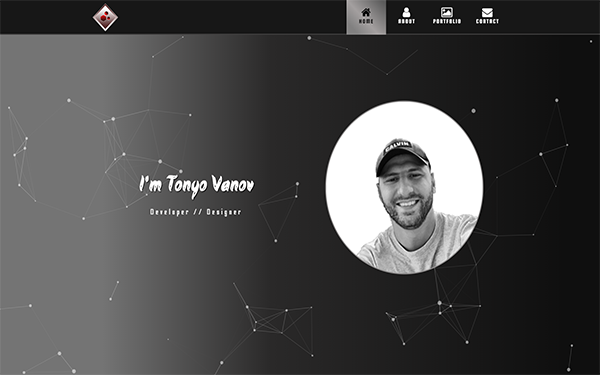
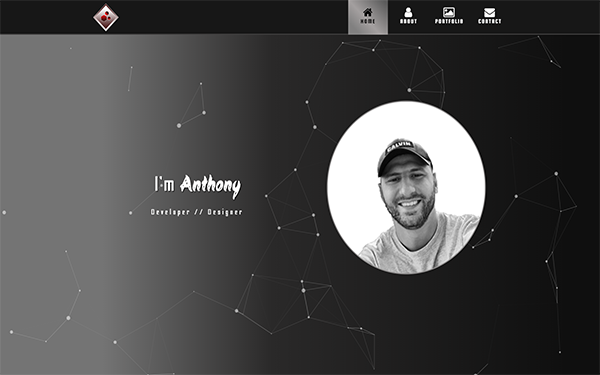
change-name

diff --git a/styles/portfolio.scss b/styles/portfolio.scss
@@ -370,11 +370,17 @@ body {
 
           h1 {
             padding: 1em 0 0;
-            font-weight: bold;
+            font-weight: 800;
             font-size: 3rem;
             letter-spacing: 2px;
             font-family: "Akronim", cursive;
             text-shadow: 2px 3px rgba(0, 0, 0, 0.5);
+
+            span {
+              font-family: "Odibee Sans", cursive;
+              font-weight: 500;
+            }
+
           }
 
           h5 {
@@ -908,7 +914,7 @@ body {
                     .circle-progress-responsible,
                     .circle-progress-team-player,
                     .circle-progress-reliable,
-                    .circle-progress-fast-learner{
+                    .circle-progress-fast-learner {
                       @include progress-personal-skill ($hover-stroke-color, 100);
                     }
                   }
@@ -1200,30 +1206,31 @@ body {
           display: flex;
           justify-content: center;
           align-items: center;
-         .contact-info-container{
-          .info {
-            display: flex;
-            justify-content: center;
-            align-items: center;
-            color: $main-color;
-            font-family: 'Abril Fatface', ;
-            line-height: 2em;
 
-            .contact-title {
-              font-size: 1.4rem;
-            }
+          .contact-info-container {
+            .info {
+              display: flex;
+              justify-content: center;
+              align-items: center;
+              color: $main-color;
+              font-family: 'Abril Fatface', ;
+              line-height: 2em;
 
-            .contact-link {
-              text-decoration: none;
-              color: #adacac;
-              transition: 0.3s;
+              .contact-title {
+                font-size: 1.4rem;
+              }
 
-              &:hover {
-                color: $main-color;
+              .contact-link {
+                text-decoration: none;
+                color: #adacac;
+                transition: 0.3s;
+
+                &:hover {
+                  color: $main-color;
+                }
               }
             }
           }
-        }
         }
       }
     }
@@ -1918,17 +1925,17 @@ body {
           }
 
           .contact-info {
-           .contact-info-container{
-            .info {
-              .contact-title {
-                font-size: 0.9rem;
-              }
+            .contact-info-container {
+              .info {
+                .contact-title {
+                  font-size: 0.9rem;
+                }
 
-              .contact-link {
-                font-size: 0.7rem;
-               }
-             }
-           }
+                .contact-link {
+                  font-size: 0.7rem;
+                }
+              }
+            }
           }
         }
       }
@@ -2261,7 +2268,7 @@ body {
           }
 
           .contact-info {
-            .contact-info-container{
+            .contact-info-container {
 
               .info {
                 line-height: 1.5em;
@@ -2660,7 +2667,7 @@ body {
           }
 
           .contact-info {
-            .contact-info-container{
+            .contact-info-container {
               .info {
                 line-height: 1.5em;
 

diff --git a/styles/portfolio.css b/styles/portfolio.css
@@ -245,11 +245,16 @@ body #home #particles-js .header-info-image-container .header-info {
 
 body #home #particles-js .header-info-image-container .header-info h1 {
   padding: 1em 0 0;
-  font-weight: bold;
+  font-weight: 800;
   font-size: 3rem;
   letter-spacing: 2px;
   font-family: "Akronim", cursive;
   text-shadow: 2px 3px rgba(0, 0, 0, 0.5);
+}
+
+body #home #particles-js .header-info-image-container .header-info h1 span {
+  font-family: "Odibee Sans", cursive;
+  font-weight: 500;
 }
 
 body #home #particles-js .header-info-image-container .header-info h5 {

diff --git a/index.html b/index.html
@@ -66,7 +66,7 @@
     <div id="particles-js">
       <div class="header-info-image-container">
         <div class="header-info">
-          <h1>I'm Tonyo Vanov</h1>
+          <h1><span>I'm</span> Anthony</h1>
           <h5>Developer // Designer</h5>
         </div>
         <div class="header-image-container"></div>
